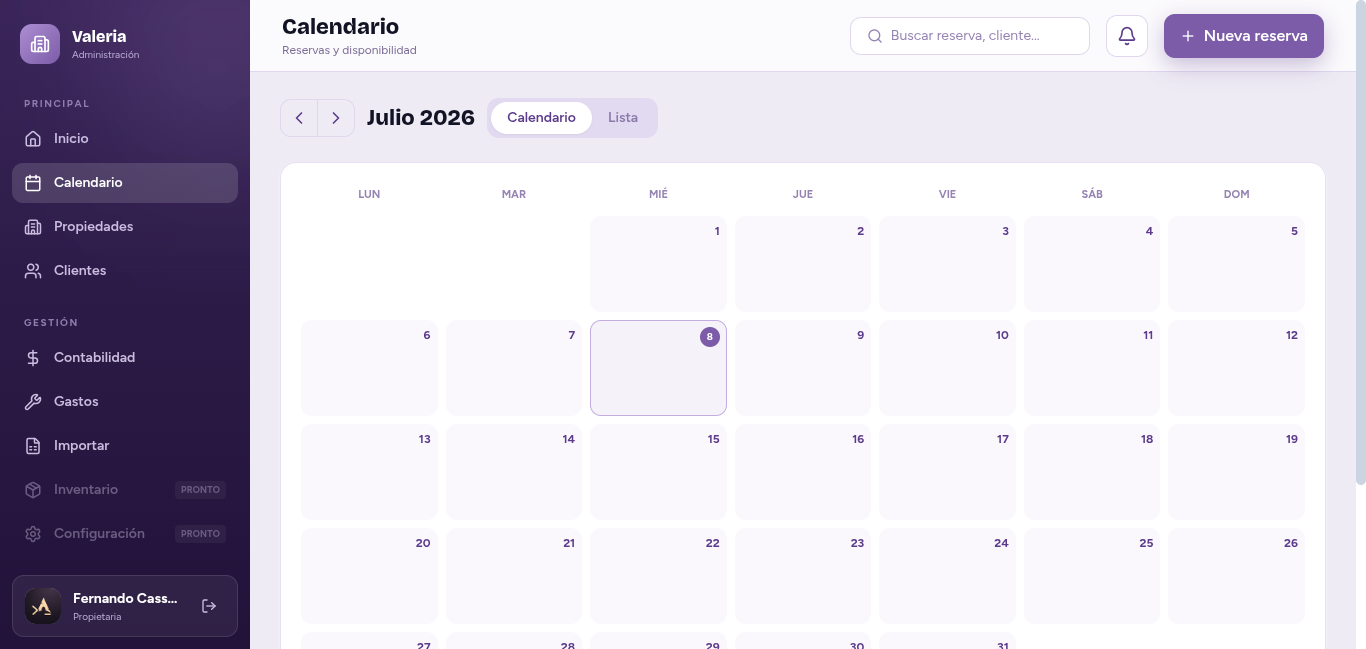
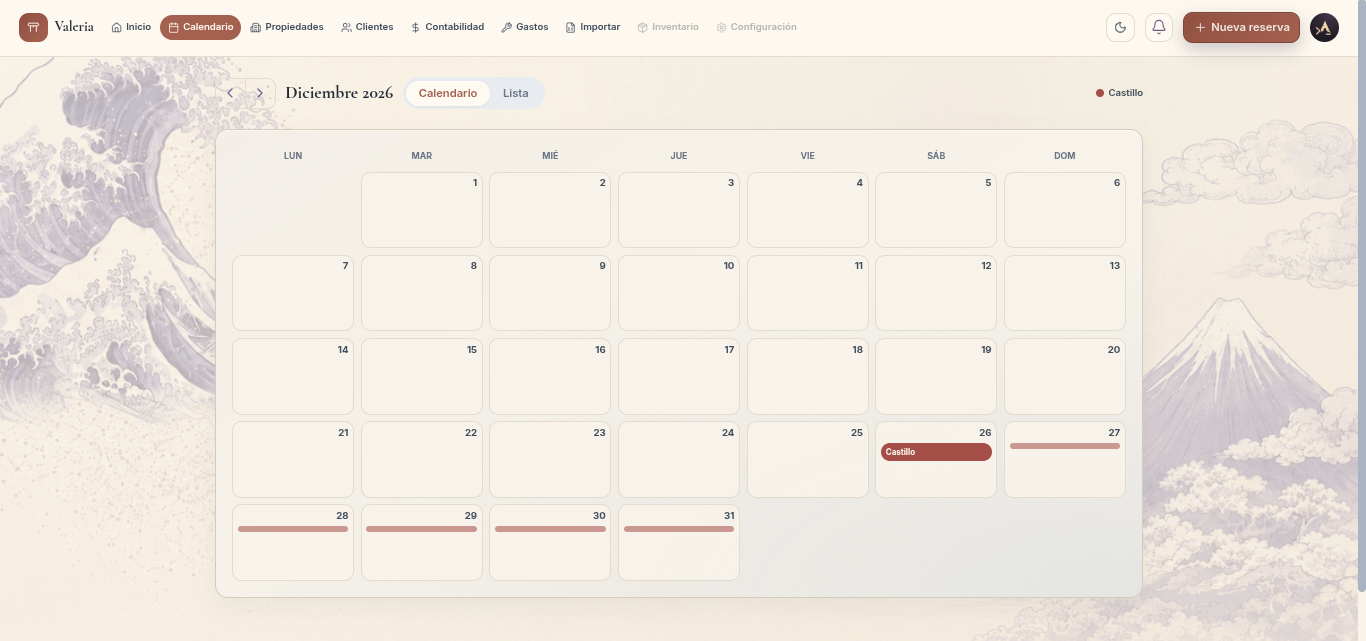
Refresh README screenshots, add mobile demo video
Every docs/*.png predates the current UI entirely (old purple sidebar
layout vs. the current Kanagawa top-nav design) and was showing stale
seed data. Replaced all 7 with fresh light-theme captures of the live
app, including the new demo-login screen.

Added a "Recorrido mobile" section linking a 2x-speed screen recording
hosted at https://s3.qeva.xyz/apartamentos-publico/demo-mobile.mp4 (new
public MinIO bucket, read-only, separate from the private receipts
bucket) instead of committing the source file -- the sped-up encode is
8MB, an order of magnitude past the two existing in-repo demo clips.

diff --git a/README.md b/README.md
@@ -31,6 +31,12 @@ Sistema web para administrar propiedades de alquiler temporal: reservas, cliente
 
 > Si los videos no se reproducen inline en tu visor de Markdown, abrilos directamente: [`docs/nueva-reserva.mp4`](docs/nueva-reserva.mp4) · [`docs/nueva-propiedad.mp4`](docs/nueva-propiedad.mp4)
 
+### Recorrido mobile
+
+<video src="https://s3.qeva.xyz/apartamentos-publico/demo-mobile.mp4" controls width="280"></video>
+
+> Si no se reproduce inline: [abrilo directamente](https://s3.qeva.xyz/apartamentos-publico/demo-mobile.mp4). Alojado aparte (no en `docs/`) por tamaño — es una captura de pantalla completa a x2 de velocidad.
+
 ## Camino rápido
 
 1. Copiá el archivo de entorno del backend y completá tus valores locales:
